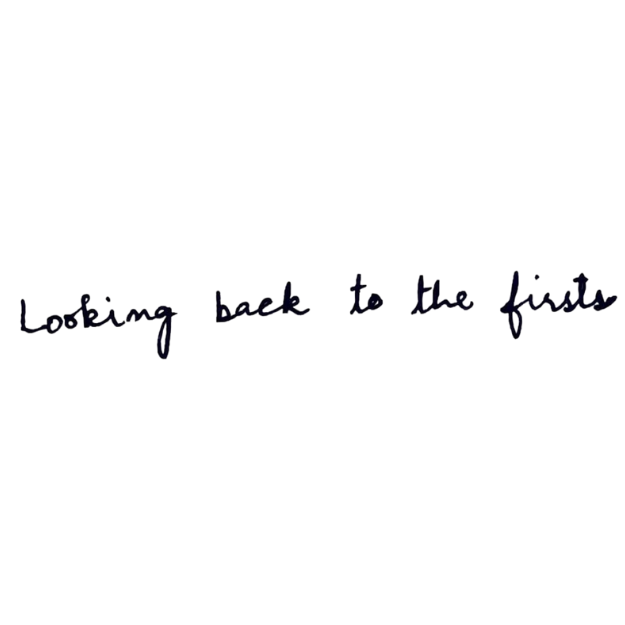
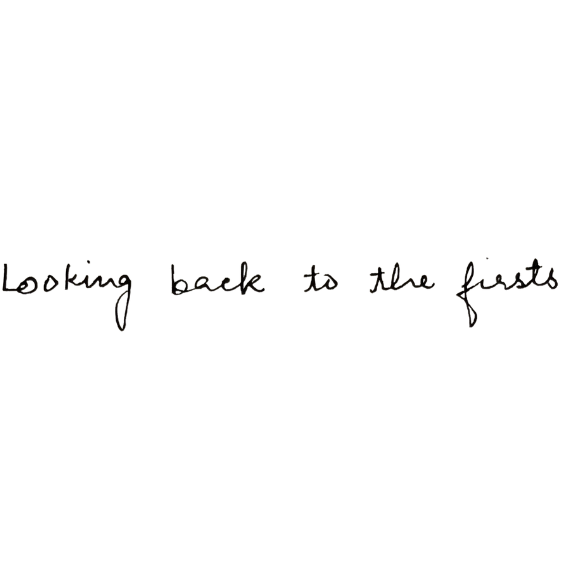
responsive

Changed region(s): [[0.0, 0.4529, 0.5133, 0.6039], [0.6341, 0.4227, 0.9964, 0.5737], [0.5435, 0.4529, 0.6039, 0.5133]]

diff --git a/kuhu_cis23/studio/On Beginnings/style.css b/kuhu_cis23/studio/On Beginnings/style.css
@@ -67,7 +67,7 @@ svg {
 
 .handwriting1{
   width: 25vw;
-  transform: rotate(-10deg);
+  transform: rotate(3deg);
   opacity: 0.8;
 }
 .handwriting2{
@@ -81,7 +81,7 @@ svg {
 }
 .handwriting4{
   width: 25vw;
-  transform: rotate(4deg);
+  transform: rotate(2deg);
   opacity: 0.8;
 }
 .handwriting5{
@@ -91,7 +91,6 @@ svg {
 }
 .handwriting6{
   width: 25vw;
-  transform: rotate(5deg);
   opacity: 0.8;
 }
 
@@ -121,7 +120,7 @@ svg {
 
 .handwriting10{
   width: 25vw;
-  transform: rotate(5.5deg);
+  transform: rotate(2deg);
   opacity: 0.8;
 }
 
@@ -133,7 +132,7 @@ svg {
 
 .handwriting12{
   width: 25vw;
-  transform: rotate(7deg);
+  transform: rotate(2deg);
   opacity: 0.8;
 }
 
@@ -181,7 +180,7 @@ svg {
 
 .handwriting20{
   width: 25vw;
-  transform: rotate(6deg);
+  transform: rotate(2deg);
   opacity: 0.8;
 }
 
@@ -193,7 +192,7 @@ svg {
 
 .handwriting22{
   width: 25vw;
-  transform: rotate(20deg);
+  transform: rotate(4deg);
   opacity: 0.8;
 }
 
@@ -205,7 +204,7 @@ svg {
 
 .handwriting24{
   width: 25vw;
-  transform: rotate(-9deg);
+  transform: rotate(-4deg);
   opacity: 0.8;
 }
 
@@ -291,7 +290,7 @@ span.reading-text {
     width: 30vw;
   }
   .handwriting17{
-    width: 25vw;
+    width: 30vw;
   }
   .handwriting18{
     width: 30vw;
@@ -323,7 +322,6 @@ span.reading-text {
   .handwriting27{
     width: 30vw;
   }
-
  }
 
  @media only screen and (max-width: 769px) {
@@ -336,17 +334,94 @@ span.reading-text {
   p{
     font-size:3vw
   }
-  
 span.reading-text {
     font-size: 3vw;
 
   }
-  
 .textWrapper {
     padding-left: 34vw;
   }
-
- }
+  .handwriting1{
+    width: 35vw;
+  }
+  .handwriting2{
+    width: 35vw;
+  }
+  .handwriting3{
+    width: 35vw;
+  }
+  .handwriting4{
+    width: 35vw;
+  }
+  .handwriting5{
+    width: 35vw;
+  }
+  .handwriting6{
+    width: 35vw;
+  }
+  .handwriting7{
+    width: 35vw;
+  }
+  .handwriting8{
+    width: 35vw;
+  }
+  .handwriting9{
+    width: 35vw;
+  }
+  .handwriting10{
+    width: 35vw;
+  }
+  .handwriting11{
+    width: 35vw;
+  }
+  .handwriting12{
+    width: 35vw;
+  }
+  .handwriting13{
+    width: 35vw;
+  }
+  .handwriting14{
+    width: 35vw;
+  }
+  .handwriting15{
+    width: 35vw;
+  }
+  .handwriting16{
+    width: 35vw;
+  }
+  .handwriting17{
+    width: 35vw;
+  }
+  .handwriting18{
+    width: 35vw;
+  }
+  .handwriting19{
+    width: 35vw;
+  }
+  .handwriting20{
+    width: 35vw;
+  }
+  .handwriting21{
+    width: 35vw;
+  }
+  .handwriting22{
+    width: 35vw;
+  }
+  .handwriting23{
+    width: 35vw;
+  }
+  .handwriting24{
+    width: 35vw;
+  }
+  .handwriting25{
+    width: 35vw;
+  }
+  .handwriting26{
+    width: 35vw;
+  }
+  .handwriting27{
+    width: 35vw;
+ }}
 
  @media only screen and (max-width: 425px) {
   img{
@@ -389,6 +464,84 @@ span.reading-text {
 .textWrapper {
     padding-left: 29vw;
   }
-
- }
-    
+  .handwriting1{
+    width: 40vw;
+  }
+  .handwriting2{
+    width: 40vw;
+  }
+  .handwriting3{
+    width: 40vw;
+  }
+  .handwriting4{
+    width: 40vw;
+  }
+  .handwriting5{
+    width: 40vw;
+  }
+  .handwriting6{
+    width: 40vw;
+  }
+  .handwriting7{
+    width: 40vw;
+  }
+  .handwriting8{
+    width: 40vw;
+  }
+  .handwriting9{
+    width: 40vw;
+  }
+  .handwriting10{
+    width: 40vw;
+  }
+  .handwriting11{
+    width: 40vw;
+  }
+  .handwriting12{
+    width: 40vw;
+  }
+  .handwriting13{
+    width: 40vw;
+  }
+  .handwriting14{
+    width: 40vw;
+  }
+  .handwriting15{
+    width: 40vw;
+  }
+  .handwriting16{
+    width: 40vw;
+  }
+  .handwriting17{
+    width: 40vw;
+  }
+  .handwriting18{
+    width: 40vw;
+  }
+  .handwriting19{
+    width: 40vw;
+  }
+  .handwriting20{
+    width: 40vw;
+  }
+  .handwriting21{
+    width: 40vw;
+  }
+  .handwriting22{
+    width: 40vw;
+  }
+  .handwriting23{
+    width: 40vw;
+  }
+  .handwriting24{
+    width: 40vw;
+  }
+  .handwriting25{
+    width: 40vw;
+  }
+  .handwriting26{
+    width: 40vw;
+  }
+  .handwriting27{
+    width:40vw;
+ }}
